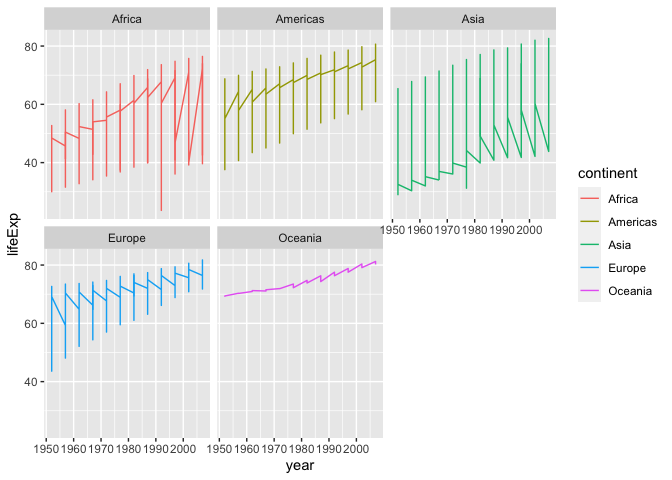
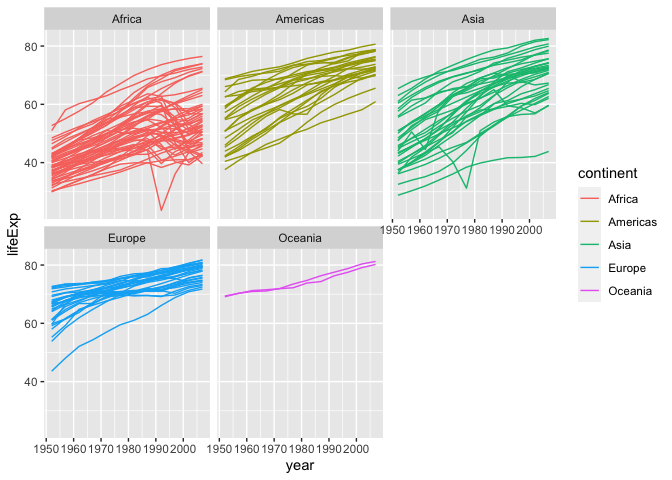
assignment edited

diff --git a/assignment_4.md b/assignment_4.md
@@ -91,19 +91,19 @@ kable(head(Theoph %>%
 | 1       | 79.6 |
 
 ``` r
- select(Theoph, contains(('t'))) %>%  # Q. this selects the upper case T why?
+ select(Theoph, contains('t',ignore.case = F)) %>%  # Q. this selects the upper case T why?
   head() %>% 
   kable()
 ```
 
-| Subject |   Wt | Time |
-| :------ | ---: | ---: |
-| 1       | 79.6 | 0.00 |
-| 1       | 79.6 | 0.25 |
-| 1       | 79.6 | 0.57 |
-| 1       | 79.6 | 1.12 |
-| 1       | 79.6 | 2.02 |
-| 1       | 79.6 | 3.82 |
+| Subject |   Wt |
+| :------ | ---: |
+| 1       | 79.6 |
+| 1       | 79.6 |
+| 1       | 79.6 |
+| 1       | 79.6 |
+| 1       | 79.6 |
+| 1       | 79.6 |
 
 ``` r
              # Hacky hor for this
@@ -375,7 +375,7 @@ continent. Color by continent.**
 ``` r
 line_plotLexp<-gapminder %>% 
   ggplot(mapping= aes(x = year, y = lifeExp))+
-  geom_line(aes(color = continent))+
+  geom_line(aes(color = continent,group = country))+
   facet_wrap(~continent)
 line_plotLexp # Hacky hor for this
 ```
@@ -412,7 +412,7 @@ events possibly explaining these trends. (Hint: facet by country)**
 ``` r
 graph_asia<- Asia_only %>% 
   ggplot(mapping= aes(x=year, y=lifeExp))+
-  geom_line(aes(color=country))+
+  geom_line(aes(x=year, y=lifeExp, group=country))+
   facet_wrap(~country)
 
 graph_asia # Hacky hor for this
@@ -429,7 +429,7 @@ continent.**
 ``` r
 percapit_plot<-gapminder %>% 
   ggplot(mapping= aes(x = year, y = gdpPercap))+
-  geom_line(aes(color = continent))+
+  geom_line(aes(color = continent, group = country))+
   facet_wrap(~continent)
 percapit_plot #hacky hour for this
 ```
